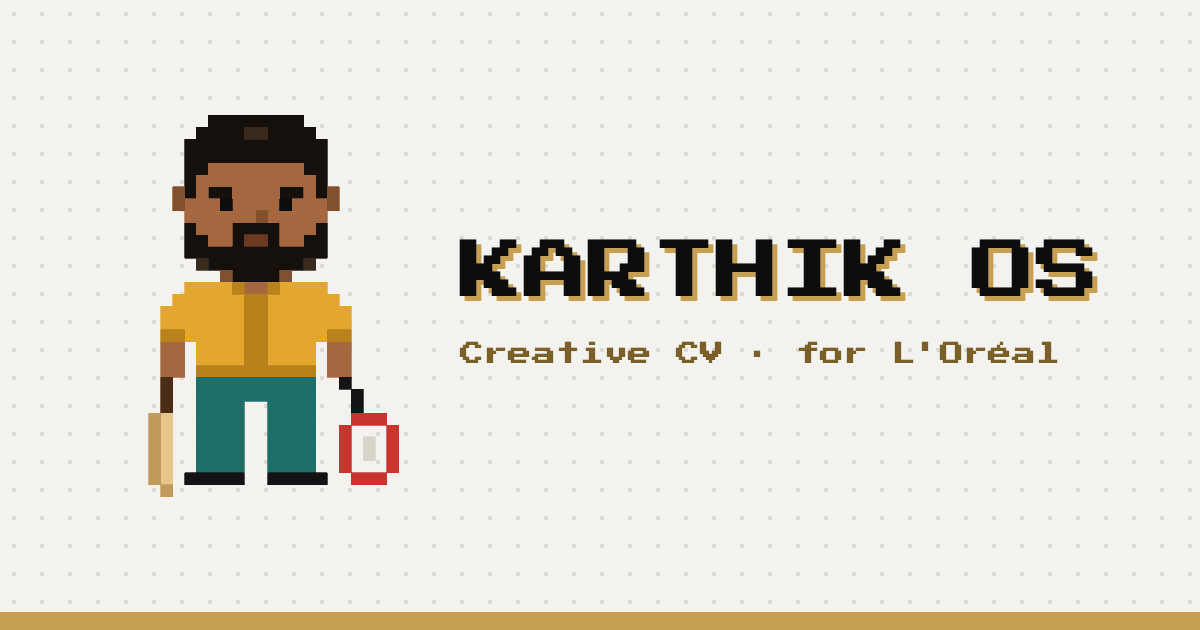
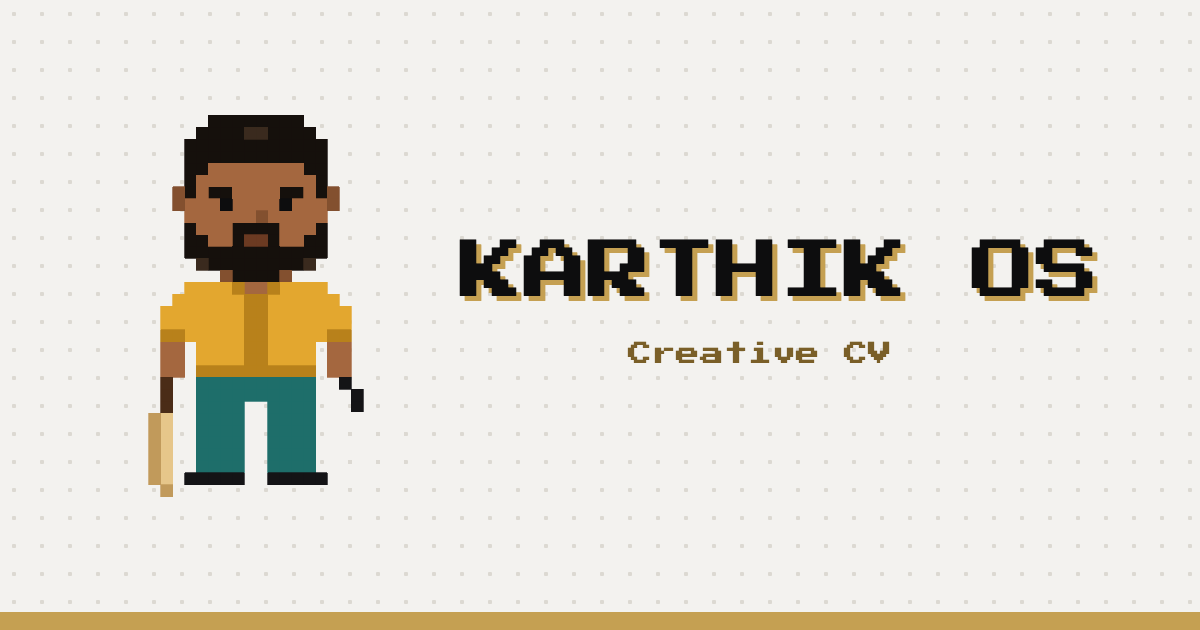
Rebrand as brand-agnostic creative CV
Remove all L'Oréal references and replace Folder 02 (Beauty Engine) with a
Work Log room: RSPL/Lovingle, the Nestlé Maggi Korean GTM project, earlier
roles and achievements. Move the personal "being seen" story into Folder 01,
delete L'Oréal assets, and regenerate the share-preview image.

Changed region(s): [[0.37, 0.5429, 0.8942, 0.573], [0.2775, 0.6333, 0.3392, 0.7841]]

diff --git a/game.html b/game.html
@@ -4,15 +4,15 @@
 <meta charset="utf-8">
 <meta name="viewport" content="width=device-width, initial-scale=1, viewport-fit=cover">
 <title>Karthik OS</title>
-<meta name="description" content="Karthik's creative CV for L'Oréal, played as an 8-bit game.">
+<meta name="description" content="Karthik's creative CV, played as an 8-bit game.">
 <meta property="og:type" content="website">
 <meta property="og:url" content="https://imkarthi7.github.io/">
-<meta property="og:title" content="Karthik OS · Creative CV for L'Oréal">
+<meta property="og:title" content="Karthik OS · Creative CV">
 <meta property="og:description" content="A creative CV, played as an 8-bit game.">
 <meta property="og:image" content="https://imkarthi7.github.io/assets/og-image.png">
 <meta property="og:image:width" content="1200">
 <meta property="og:image:height" content="630">
-<meta property="og:image:alt" content="Pixel-art Karthik beside the words KARTHIK OS, Creative CV for L'Oréal">
+<meta property="og:image:alt" content="Pixel-art Karthik beside the words KARTHIK OS, Creative CV">
 <meta name="twitter:card" content="summary_large_image">
 <link rel="icon" href="favicon.png">
 <link rel="preconnect" href="https://fonts.googleapis.com">
@@ -21,7 +21,7 @@
 <link rel="preload" as="style" href="https://fonts.googleapis.com/css2?family=Press+Start+2P&family=Pixelify+Sans:wght@400;700&family=Archivo:wght@400;700;800&display=swap" onload="this.onload=null;this.rel='stylesheet'">
 <noscript><link rel="stylesheet" href="https://fonts.googleapis.com/css2?family=Press+Start+2P&family=Pixelify+Sans:wght@400;700&family=Archivo:wght@400;700;800&display=swap"></noscript>
 <style>
-/* Single deliberate look: paper-white desk, ink black, L'Oréal gold. */
+/* Single deliberate look: paper-white desk, ink black, warm gold. */
 :root {
   color-scheme: light;
   --ink: #0d0d0e;
@@ -449,7 +449,7 @@ li.todo::before { display: none; }
   </header>
   <main class="desk-main" id="desk">
     <div class="hello">
-      <p class="eyebrow">Creative CV · for L'Oréal</p>
+      <p class="eyebrow">Creative CV</p>
       <h1>Choose a <em>file</em>, Player 2</h1>
       <p class="lede">Click a folder to open it, or walk Karthik over if you'd like to play. Three rooms, one person.</p>
     </div>
@@ -565,6 +565,15 @@ const FOLDERS = [
         body: ["My parents always trusted me to make my own choices, so I made them: Electrical Engineering, leaving a stable job for an MBA, moving from Kerala to Ahmedabad, and chasing an off-campus FMCG sales internship because I wanted to work close to consumers."],
       },
       {
+        tag: "WHAT DRIVES ME",
+        title: "Being seen",
+        body: [
+          "I grew up apprehensive about my skin tone, often wondering if people would see me differently because I was dark-skinned. But the people around me saw much more than that — they valued the energy I brought, the friendships I built and the way I showed up for them.",
+          "What you carry within you eventually finds a way to show on the outside. As Elisabeth Kübler-Ross wrote, \"People are like stained-glass windows.\" Their true beauty comes through when there is light from within.",
+          "I want to make people feel seen the way the people around me made me feel seen.",
+        ],
+      },
+      {
         tag: "LEVEL 2",
         title: "MICA",
         body: ["MICA was the first time I left home. I knew very little Hindi and had no idea how I'd fit in. So I started talking. From organising an Onam Sadhya for 400+ people to waking up at 5 a.m. for a Rajinikanth first-day-first-show, MICA let me be fully myself. Somewhere along the way, I found sales: people, problem-solving and the thrill of figuring things out."],
@@ -595,37 +604,51 @@ const FOLDERS = [
     ],
   },
   {
-    id: "beauty",
-    name: "The Beauty Engine",
-    eyebrow: "Folder 02 · Beauty & the brand I relate to",
-    intro: "What beauty means to me, and the brand that earned my trust.",
-    emblem: "lipstick",
+    id: "work",
+    name: "Work Log",
+    eyebrow: "Folder 02 · Experience & what I've shipped",
+    intro: "The roles I've played, the brands I've worked on, and the problems I've chased on the ground.",
+    emblem: "briefcase",
     cards: [
       {
-        tag: "PHILOSOPHY",
-        title: "What beauty means",
-        body: [
-          "I grew up being apprehensive about my skin tone, often wondering if people would see me differently because I was dark-skinned. But the people around me made me realise that they saw much more than that. They valued me for who I was — the energy I brought, the friendships I built and the way I showed up for them.",
-          "For me, that is beauty. What you carry within you eventually finds a way to show on the outside. As Elisabeth Kübler-Ross wrote, \"People are like stained-glass windows.\" Their true beauty comes through when there is light from within.",
-          "And I want to make people feel seen the way the people around me made me feel seen.",
+        tag: "CURRENT RUN",
+        title: "Assistant Brand Manager · RSPL Group",
+        body: ["I'm the sole brand custodian for Lovingle, RSPL's ~₹80 Cr diaper brand, working day-to-day with the Category Manager and CMO."],
+        sections: [
+          { heading: "WHAT I OWN", text: "Brand P&L, pricing and margin inputs, and the Lovingle positioning document — target consumer, insight, proposition and tone. I also track primary and secondary sales by SKU and channel for leadership reviews." },
+          { heading: "THE BIG QUEST", text: "Co-building the launch of RSPL's first baby wash across ~15,000 GT outlets in two states — competitor benchmarking, pricing and channel strategy, and launch readiness across packaging, artwork and product codes." },
+          { heading: "ON THE GROUND", text: "Monthly market immersions in UP and Delhi with distributors, 100+ retailers and consumers. I manage three agencies — creative, digital and PR — writing briefs and giving creative feedback." },
         ],
       },
       {
-        tag: "BRAND I RELATE TO",
-        title: "L'Oréal Paris",
-        logo: { src: "assets/brand/loreal-paris-logo.png", alt: "L'Oréal Paris" },
-        image: { src: "assets/img/loreal-products.webp", alt: "My own L'Oréal Paris products: Hyaluron Pure 72H Purifying Shampoo, Extraordinary Oil Serum, Hyaluron Moisture 72H Moisture Sealing Conditioner" },
-        body: ["My entry into L'Oréal Paris was through the Extraordinary Oil Serum. A friend recommended it, I tried it, and I loved how it made my hair smooth without weighing it down."],
+        tag: "BOSS LEVEL",
+        title: "Nestlé · Maggi Korean Noodles",
+        body: ["My Sales & Marketing internship at Nestlé (Chennai) was a full GTM project: why is Maggi Korean Noodles underperforming versus competitors, and how do we fix it?"],
+        sections: [
+          { heading: "THE DIG", text: "50+ MT and GT store visits across Chennai and Kerala, 200+ consumer and trade interviews, 85 survey responses and social listening — to find the real gaps in trial, taste and visibility." },
+          { heading: "WHAT I FOUND", text: "A strong brand name but low awareness and trial; shelves where shopkeepers didn't even know the variant existed; and a taste read as \"too Indian\" next to Nissin and Samyang." },
+          { heading: "THE PLAY", text: "A relaunch across the 4Ps — authentic Korean variants (Kimchi, Gochujang), a ₹50 trial SKU to take on Nissin, weighted MT + Q-commerce distribution, and a K-wave, influencer-led story instead of a celebrity drop." },
+          { heading: "ALSO", text: "Led and trained 12 field interns across 6 regions on MT visibility, retailer negotiations and SOP adherence." },
+        ],
       },
       {
-        tag: "WHY IT STUCK",
-        title: "Trust, earned",
-        body: ["After that, I started trying more L'Oréal Paris products — the Hyaluron shampoo and conditioner, among others. I realised I was choosing the brand almost without thinking about it. Good experiences built trust, and when I tried something new, it met my expectations."],
+        tag: "SIDE QUESTS",
+        title: "Before the MBA",
+        sections: [
+          { heading: "SYNNEFX HEALTH TECHNOLOGIES — PROJECT ENGINEER", text: "Prospected and onboarded 10+ healthcare clients across Kerala and ran 25+ product demos for B2B clients, closing 3 long-term renewals through consultative selling." },
+          { heading: "TATA CONSULTANCY SERVICES — ASSISTANT SYSTEM ENGINEER", text: "Supported Azure cost tracking for enterprise clients and authored technical documentation that cut onboarding time by ~25%." },
+        ],
       },
       {
-        tag: "PROOF OF CLAIM",
-        title: "What we share",
-        body: ["That is something I believe in too: deliver what you promise."],
+        tag: "ACHIEVEMENTS",
+        title: "Trophies & projects",
+        list: [
+          "National Finalist & Campus Winner — Top 13 of 3,293 teams, Pink Pitch by Rajasthan Royals.",
+          "National Semi-Finalist — Top 60 of 2,500 teams, Big Idea Challenge by V-Guard.",
+          "National Semi-Finalist — Top 60 of 24,417 teams, Finclusion Challenge by Muthoot.",
+          "OpenGrad Foundation — drove 625+ conversions and built cohort-tracking for a 57% funnel success rate.",
+          "MICANVAS — secured ₹7L+ in sponsorships (HDFC Bank, Indian Oil, UCB, Phab) for the flagship fest.",
+        ],
       },
     ],
   },
@@ -771,7 +794,7 @@ const heroFrames = () => (innerWidth <= 560 ? F3 : F4);
 
 const EMBLEMS = {
   person: ["..GGGG..", "..GGGG..", "..GGGG..", "...GG...", ".GGGGGG.", "GGGGGGGG", "GGGGGGGG", "GGGGGGGG"],
-  lipstick: ["....GG..", "...GGG..", "...GGG..", "..WWWW..", "..GGGG..", "..GGGG..", "..GGGG..", "..GGGG.."],
+  briefcase: ["..GGGG..", "..G..G..", "GGGGGGGG", "GGGGGGGG", "GGGWWGGG", "GGGGGGGG", "GGGGGGGG", "GGGGGGGG"],
   chart: ["......GG", "......GG", "...GG.GG", "...GG.GG", "GG.GG.GG", "GG.GG.GG", "GG.GG.GG", "WWWWWWWW"],
 };
 function folderSVG(emblem) {

diff --git a/index.html b/index.html
@@ -5,15 +5,15 @@
 <meta name="viewport" content="width=device-width, initial-scale=1">
 <title>Karthik OS</title>
 <meta name="robots" content="noindex">
-<meta name="description" content="Karthik's creative CV for L'Oréal, played as an 8-bit game.">
+<meta name="description" content="Karthik's creative CV, played as an 8-bit game.">
 <meta property="og:type" content="website">
 <meta property="og:url" content="https://imkarthi7.github.io/">
-<meta property="og:title" content="Karthik OS · Creative CV for L'Oréal">
+<meta property="og:title" content="Karthik OS · Creative CV">
 <meta property="og:description" content="A creative CV, played as an 8-bit game.">
 <meta property="og:image" content="https://imkarthi7.github.io/assets/og-image.png">
 <meta property="og:image:width" content="1200">
 <meta property="og:image:height" content="630">
-<meta property="og:image:alt" content="Pixel-art Karthik beside the words KARTHIK OS, Creative CV for L'Oréal">
+<meta property="og:image:alt" content="Pixel-art Karthik beside the words KARTHIK OS, Creative CV">
 <meta name="twitter:card" content="summary_large_image">
 <link rel="canonical" href="game.html">
 <link rel="icon" href="favicon.png" type="image/png">

diff --git a/README.md b/README.md
@@ -1,9 +1,9 @@
 # Karthik OS
 
-Karthik's creative CV for L'Oréal, played as an 8-bit game. Live at **https://imkarthi7.github.io**.
+Karthik's creative CV, played as an 8-bit game. Live at **https://imkarthi7.github.io**.
 
 The whole site is one file, `game.html`, with no build step. `index.html` only redirects to it (keeping
-any `#room` link, e.g. `/#beauty`).
+any `#room` link, e.g. `/#work`).
 
 ## Files
 
@@ -13,9 +13,7 @@ any `#room` link, e.g. `/#beauty`).
 | `index.html` | Redirect to `game.html` |
 | `assets/img/karthik.webp` | Photo on Folder 01, card 01 |
 | `assets/img/karthik-badge.webp` | Small photo on the Contact page badge |
-| `assets/img/motto.webp` | Photo on Folder 01, card 05 (My motto) |
-| `assets/img/loreal-products.webp` | Photo on the L'Oréal Paris card |
-| `assets/brand/loreal-paris-logo.png` | Logo on the L'Oréal Paris card |
+| `assets/img/motto.webp` | Photo on Folder 01, "My motto" card |
 | `assets/og-image.png` | Preview image shown when the link is shared (1200 × 630) |
 | `assets/Karthik_J_Resume.pdf` | The résumé every CV link points to |
 | `assets/resume.pdf` | Identical copy at the résumé's old address, so older links keep working (replace both together) |
@@ -41,7 +39,7 @@ python3 -m http.server 8123
 ## Publishing
 
 ```bash
-cd ~/Documents/loreal-cv && ./tools/publish.sh "What changed"
+cd /path/to/imkarthi7.github.io && ./tools/publish.sh "What changed"
 ```
 
 GitHub rebuilds the site in about a minute. Visitors may need a hard refresh (Cmd+Shift+R) to see it.
